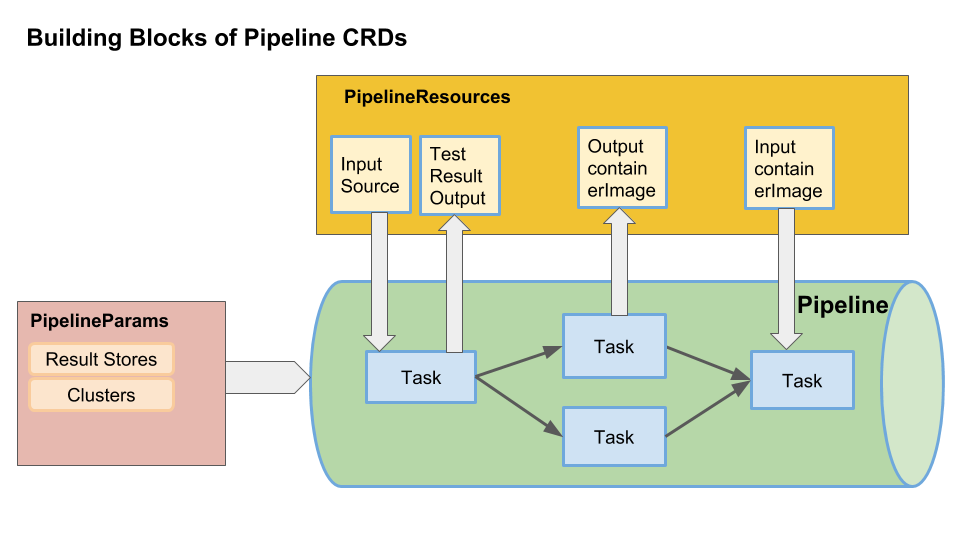
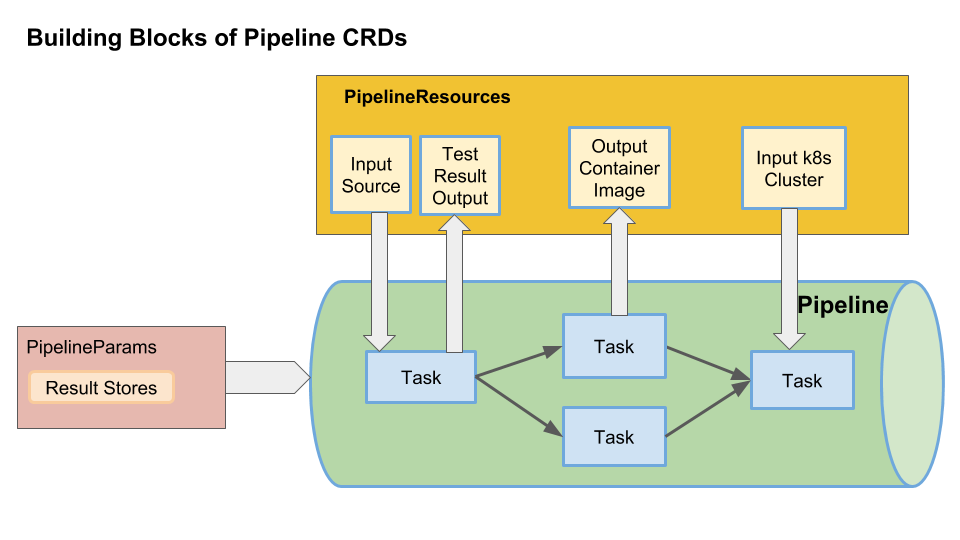
Misc doc fixes
While doing a user study today, found a few more things that fell behind
in our docs:

* Hadn't updated our concepts docs when we moved the "bindings" of
  resources into the pipelinerun
* Still using passedConstraints in user study answer guide
* Concepts doc still said clusters were in `PipelineParams` but they are
  a type of resource now

Also tried to fix some indentation. Makes the yamls more palatable IMO.

diff --git a/docs/Concepts.md b/docs/Concepts.md
@@ -1,4 +1,5 @@
 # Pipeline CRDs
+
 Pipeline CRDs is an open source implementation to configure and run CI/CD style pipelines for your kubernetes application.
 
 Pipeline CRDs creates [Custom Resources](https://kubernetes.io/docs/concepts/extend-kubernetes/api-extension/custom-resources/) as building blocks to declare pipelines.
@@ -12,7 +13,7 @@ High level details of this design:
 * [Pipelines](#pipeline) do not know what will trigger them, they can be
    triggered by events or by manually creating [PipelineRuns](#pipelinerun)
 * [Tasks](#task) can exist and be invoked completely independently of
-  [pipelines](#pipeline); they are highly cohesive and loosely coupled
+  [Pipelines](#pipeline); they are highly cohesive and loosely coupled
 * Test results are a first class concept, being able to navigate test results
   easily is powerful (e.g. see failures easily, dig into logs, e.g. like
   [the Jenkins test analyzer plugin](https://wiki.jenkins.io/display/JENKINS/Test+Results+Analyzer+Plugin))
@@ -20,6 +21,7 @@ High level details of this design:
 * [Resources](#pipelineresources) are the artifacts used as inputs and outputs of TaskRuns.
 
 ## Building Blocks of Pipeline CRDs
+
 Below diagram lists the main custom resources created by Pipeline CRDs:
 
 * [Task](#task)
@@ -52,12 +54,12 @@ metadata:
   namespace: default
 spec:
   steps:
-    - name: echo
-      image: busybox
-      command:
-        - echo
-      args:
-        - "hello world!"
+  - name: echo
+    image: busybox
+    command:
+    - echo
+    args:
+    - "hello world!"
 ```
 
 Examples of `Task` definitions with inputs and outputs are [here](../examples)
@@ -84,7 +86,7 @@ In this `echo-hello-twice` pipeline, there are two named tasks; `hello-world-fir
 
 Both the tasks, refer to [`Task`](#Task) `hello-world` mentioned in `taskRef` config.
 
-```shell
+```yaml
 apiVersion: pipeline.knative.dev/v1alpha1
 kind: Pipeline
 metadata:
@@ -92,12 +94,12 @@ metadata:
   namespace: default
 spec:
   tasks:
-    - name: hello-world-first
-      taskRef:
-        name: hello-world
-    - name: hello-world-again
-      taskRef:
-        name: hello-world
+  - name: hello-world-first
+    taskRef:
+      name: hello-world
+  - name: hello-world-again
+    taskRef:
+      name: hello-world
 ```
 
 Examples of pipelines with complex DAGs are [here](../examples/pipelines)
@@ -107,13 +109,14 @@ Examples of pipelines with complex DAGs are [here](../examples/pipelines)
 `PipelinesResources` in a pipeline are the set of objects that are going to be used as inputs to a [`Task`](#Task) and can be output of [`Task`](#Task) .
 
 For example:
+
 * A task's input could be a github source which contains your application code.
 * A task's output can be your application container image which can be then deployed in a cluster.
 
 Read more on PipelineResources and their types [here](./using.md)
 
-`Resources` in a pipelines are the set of objects that are going to be used 
-as inputs and outputs of a `TaskRun`. 
+`PipelineResources` in a pipelines are the set of objects that are going to be used
+as inputs and outputs of a `TaskRun`.
 
 ### PipelineParams
 
@@ -124,7 +127,6 @@ for scenarios such as running against PRs and against a user’s personal setup.
 
 * Which **serviceAccount** to use (provided to all tasks)
 * Where **results** are stored (e.g. in GCS)
-* What **clusters** you want to deploy to
 
 For example:
 
@@ -135,24 +137,17 @@ metadata:
   name: pipelineparams-sample
   namespace: default
 spec:
-    serviceAccount: 'demoServiceAccount'
-    clusters:
-        - name: 'testCluster'
-          type: 'gke'
-          endpoint: 'https://prod.gke.corp.com'
-        - name: 'stagingCluster'
-          type: 'gke'
-          endpoint: 'https://staging.gke.corp.com'
-    results:
-        runs:
-          type: 'gcs'
-          url: 'gcs://somebucket/results/runs'
-        logs:
-          type: 'gcs'
-          url: 'gcs://somebucket/results/logs'
-        tests:
-          type: 'gcs'
-          url: 'gcs://somebucket/results/tests'
+  serviceAccount: 'demoServiceAccount'
+  results:
+    runs:
+      type: 'gcs'
+      url: 'gcs://somebucket/results/runs'
+    logs:
+      type: 'gcs'
+      url: 'gcs://somebucket/results/logs'
+    tests:
+      type: 'gcs'
+      url: 'gcs://somebucket/results/tests'
 ```
 
 ### Runs
@@ -165,7 +160,7 @@ To invoke a [`Pipeline`](#pipeline) or a [`Task`](#task), you must create a corr
 
 #### TaskRun
 
-Creating a `TaskRun` will invoke a [Task](#task), running all of the steps until 
+Creating a `TaskRun` will invoke a [Task](#task), running all of the steps until
 completion or failure. Creating a `TaskRun` will require satisfying all of the input
 requirements of the `Task`.
 
@@ -173,10 +168,14 @@ requirements of the `Task`.
 
 #### PipelineRun
 
-Creating a `PipelineRun` executes the pipeline, creating [TaskRuns](#taskrun) for each 
+Creating a `PipelineRun` executes the pipeline, creating [TaskRuns](#taskrun) for each
 task in the pipeline.
 
-`PipelineRuns` tie together a [Pipeline](#pipeline) and a [PipelineParam](#pipelineparams).
+`PipelineRuns` tie together:
+
+* A [Pipeline](#pipeline)
+* A [PipelineParam](#pipelineparams)
+* The [PipelineResources](#pipelineresources) to use for each [Task](#task)
 
 A `PipelineRun` could be created:
 
